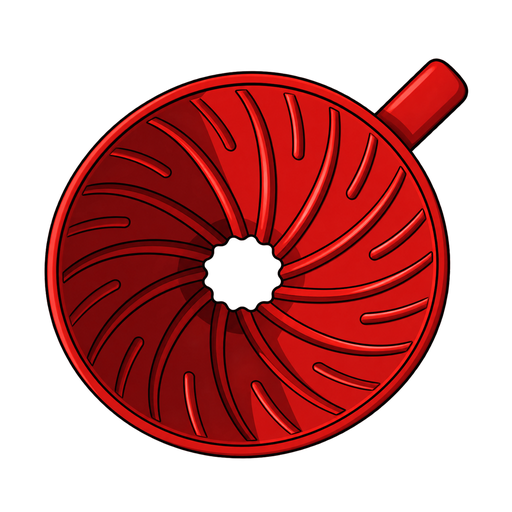
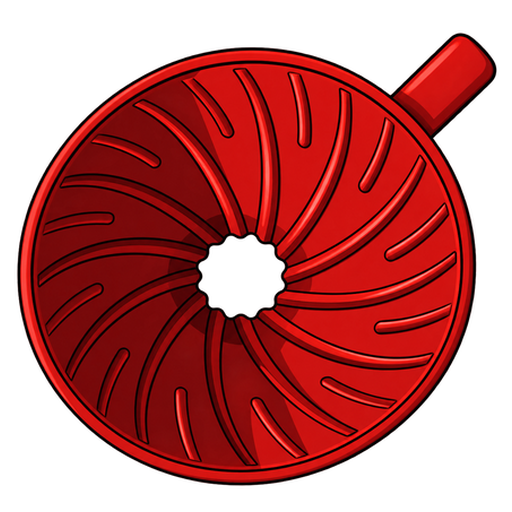
Add files via upload

diff --git a/service-worker.js b/service-worker.js
@@ -1,5 +1,5 @@
-const CACHE='mr-coffee-v1.4.2';
-const CORE=['./','./index.html','./manifest.webmanifest','./icon-192.png','./icon-512.png','./icon-maskable-192.png','./icon-maskable-512.png'];
+const CACHE='mr-coffee-v1.4.3';
+const CORE=['./','./index.html','./manifest.webmanifest','./icon-192.png','./icon-512.png','./icon-maskable-192.png','./icon-maskable-512.png','./icon-maskable-192.png','./icon-maskable-512.png'];
 self.addEventListener('install',e=>{self.skipWaiting();e.waitUntil(caches.open(CACHE).then(c=>c.addAll(CORE)))});
 self.addEventListener('activate',e=>e.waitUntil(caches.keys().then(keys=>Promise.all(keys.filter(k=>k!==CACHE).map(k=>caches.delete(k)))).then(()=>self.clients.claim())));
 self.addEventListener('fetch',e=>{

diff --git a/index.html b/index.html
@@ -84,7 +84,7 @@
         <h1>☕ Mr Coffee</h1>
         <div class="sub">V60 scale-side helper</div>
       </div>
-      <div style="text-align:right"><div class="pill" id="ratioBadge">16:1 · 3× bloom</div><div class="sub" style="margin-top:5px">Mr Coffee · v1.4.2</div></div>
+      <div style="text-align:right"><div class="pill" id="ratioBadge">16:1 · 3× bloom</div><div class="sub" style="margin-top:5px">Mr Coffee · v1.4.3</div></div>
     </div>
 
     <div class="tabs">

diff --git a/README.md b/README.md
@@ -47,3 +47,6 @@ v1.4.1 updates the app icon to use the user-provided white-backed V60 compositio
 
 
 v1.4.2 updates the app icon to use the user-provided full-bleed white source and adds explicit maskable icon entries.
+
+
+v1.4.3 uses separate regular and maskable icon artwork. The maskable icons are deliberately enlarged relative to the regular icons so the V60 body occupies more of the Android launcher badge.
